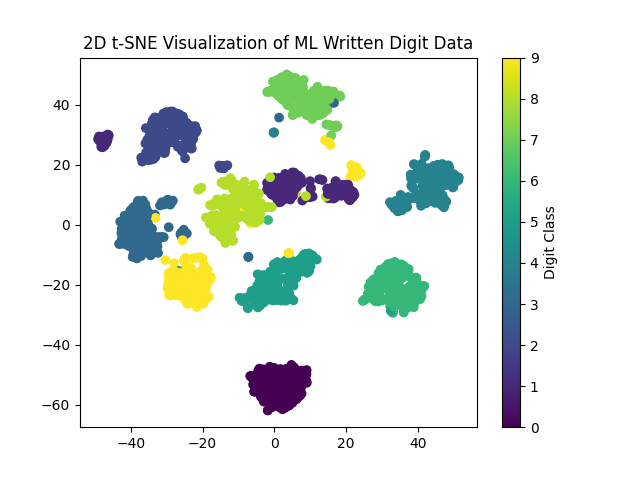
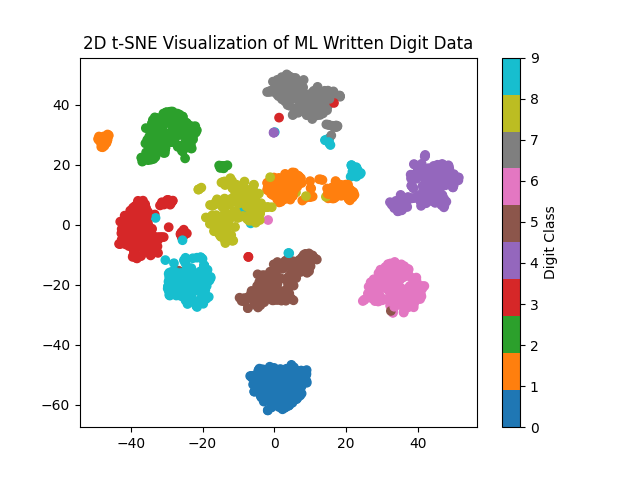
digits notes

diff --git a/docs/notes-digits.md b/docs/notes-digits.md
@@ -1,0 +1,9 @@
+I used a combination of the scikit learn TSNE documentation to create my parameters, a scikit learn example project that used TSNE in part of it for a similar ML digits vizualization to know how to input the data and use the generated transform in a plot. I also used Chat GPT to understand how the data is being stored and how I should extract it for the purpose of using in a t-SNE transform.
+
+AI and the example projects had many paramters when creating the t-SNE function, but I chose to only use a few as the default values in the scikit documentation seemed reasonable.
+
+I used a block gradient for my coloring rather than a continuous gradient as the clusters are representing integer steps rather than continuous values.
+
+
+https://scikit-learn.org/stable/modules/generated/sklearn.manifold.TSNE.html
+https://scikit-learn.org/stable/auto_examples/manifold/plot_lle_digits.html
